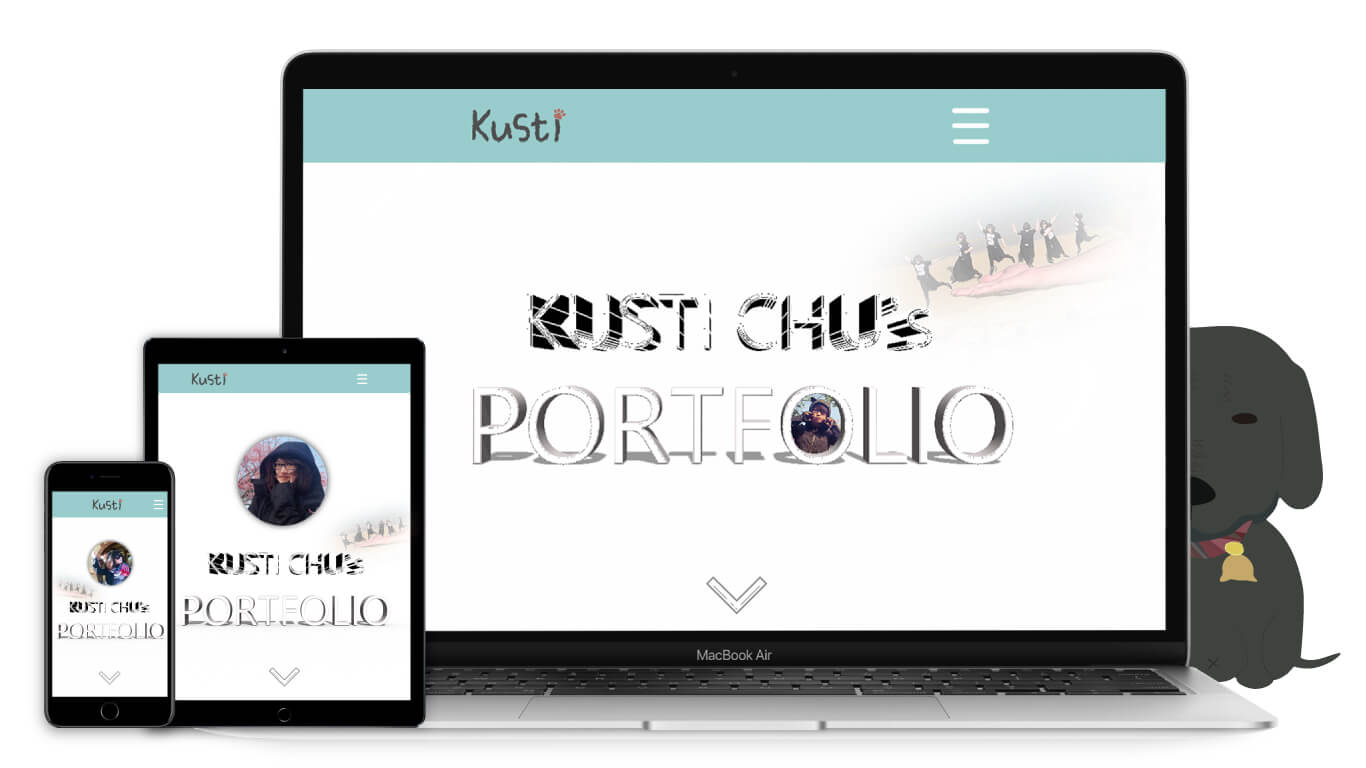
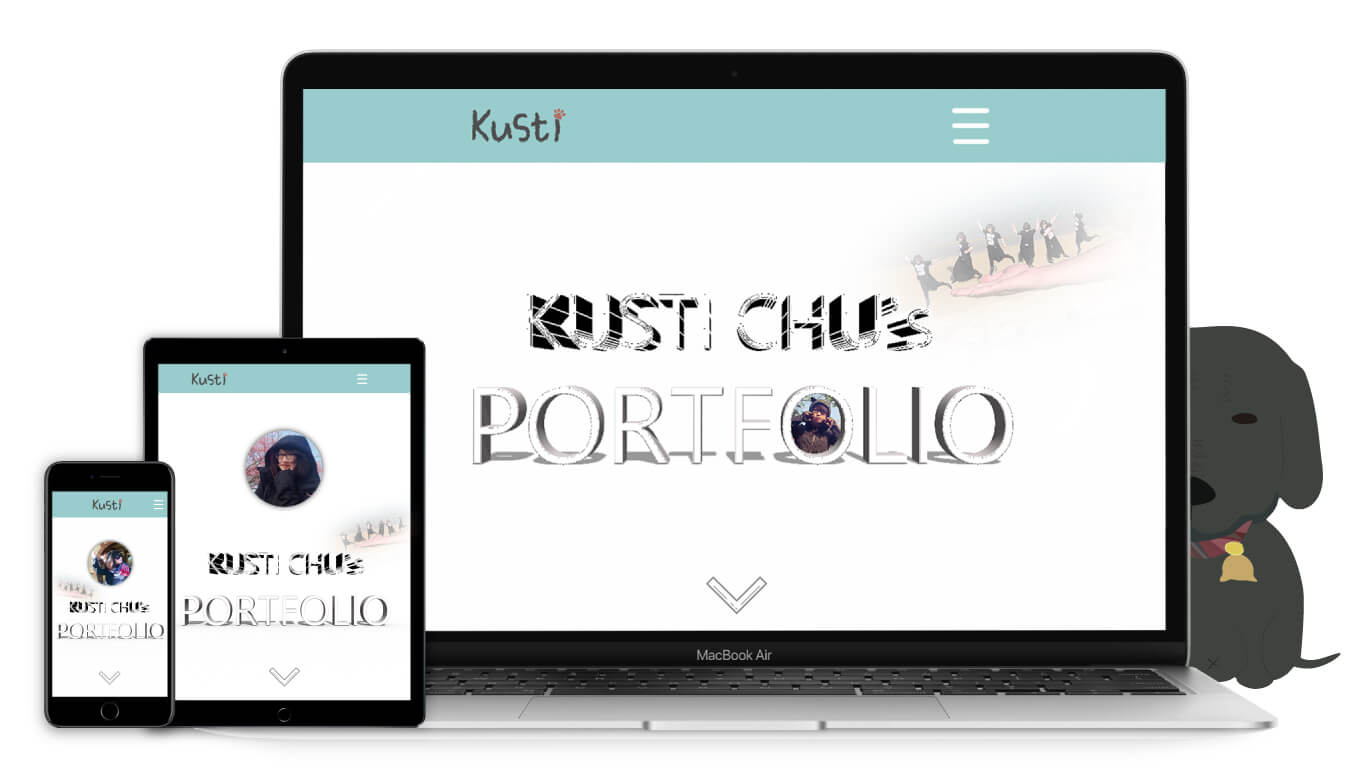
更新avatar手機檢查

Changed region(s): [[0.1537, 0.5312, 0.246, 0.6875]]

diff --git a/protfolio/css/index.scss b/protfolio/css/index.scss
@@ -20,6 +20,12 @@ body {
     color: white;
 }
 
+h3 {
+    margin-bottom: 0px;
+    margin-top: 0;
+    padding: 30px 0px;
+}
+
 .MB-100 {
     margin-bottom: 100px;
 }
@@ -53,19 +59,19 @@ header {
         margin-bottom: 0px;
         margin-top: 0;
         padding: 30px 0px;
-        font-size: 65px;
+        font-size: 60px;
         font-weight: 900;
         @media (max-width:1600px) {
-            font-size: 55px;
+            font-size: 50px;
         }
         @media (max-width:1440px) {
-            font-size: 52px;
+            font-size: 47px;
         }
         @media (max-width:1280px) {
-            font-size: 48px;
+            font-size: 43px;
         }
         @media (max-width:1024px) {
-            font-size: 40px;
+            font-size: 38px;
         }
         @media (max-width:576px) {
             font-size: 33px;
@@ -95,23 +101,27 @@ header {
         right: 9%;
         animation: aniShow-title-992 1.5s 1s ease-out forwards;
     }
+    @media (max-width:375px) {
+        right: 6%;
+        animation: aniShow-title-375 1.5s 1s ease-out forwards;
+    }
 
     h5 {
-        font-size: 40px;
-        font-weight: 700;
+        font-size: 35px;
+        font-weight: 600;
         animation: aniShow-title 5s 3s ease-out forwards;
         opacity: 0.3;
         @media (max-width:1600px) {
-            font-size: 38px;
+            font-size: 30px;
         }
         @media (max-width:1440px) {
-            font-size: 35px;
+            font-size: 29px;
         }
         @media (max-width:1280px) {
-            font-size: 32px;
+            font-size: 25px;
         }
         @media (max-width:1024px) {
-            font-size: 26px;
+            font-size: 23px;
         }
         @media (max-width:576px) {
             font-size: 20px;
@@ -151,6 +161,17 @@ header {
     100% {
         opacity: 1;
         right: 9%;
+    }
+}
+@keyframes aniShow-title-375 {
+    0% {
+        opacity: 0;
+        right: -5%;
+    }
+
+    100% {
+        opacity: 1;
+        right: 6%;
     }
 }
 

diff --git a/protfolio/css/index.css b/protfolio/css/index.css
@@ -20,6 +20,12 @@ body {
   color: white;
 }
 
+h3 {
+  margin-bottom: 0px;
+  margin-top: 0;
+  padding: 30px 0px;
+}
+
 .MB-100 {
   margin-bottom: 100px;
 }
@@ -54,31 +60,31 @@ header {
   margin-bottom: 0px;
   margin-top: 0;
   padding: 30px 0px;
-  font-size: 65px;
+  font-size: 60px;
   font-weight: 900;
 }
 
 @media (max-width: 1600px) {
   .banner h3 {
-    font-size: 55px;
+    font-size: 50px;
   }
 }
 
 @media (max-width: 1440px) {
   .banner h3 {
-    font-size: 52px;
+    font-size: 47px;
   }
 }
 
 @media (max-width: 1280px) {
   .banner h3 {
-    font-size: 48px;
+    font-size: 43px;
   }
 }
 
 @media (max-width: 1024px) {
   .banner h3 {
-    font-size: 40px;
+    font-size: 38px;
   }
 }
 
@@ -123,9 +129,17 @@ header {
   }
 }
 
+@media (max-width: 375px) {
+  .banner_text {
+    right: 6%;
+    -webkit-animation: aniShow-title-375 1.5s 1s ease-out forwards;
+            animation: aniShow-title-375 1.5s 1s ease-out forwards;
+  }
+}
+
 .banner_text h5 {
-  font-size: 40px;
-  font-weight: 700;
+  font-size: 35px;
+  font-weight: 600;
   -webkit-animation: aniShow-title 5s 3s ease-out forwards;
           animation: aniShow-title 5s 3s ease-out forwards;
   opacity: 0.3;
@@ -133,25 +147,25 @@ header {
 
 @media (max-width: 1600px) {
   .banner_text h5 {
-    font-size: 38px;
+    font-size: 30px;
   }
 }
 
 @media (max-width: 1440px) {
   .banner_text h5 {
-    font-size: 35px;
+    font-size: 29px;
   }
 }
 
 @media (max-width: 1280px) {
   .banner_text h5 {
-    font-size: 32px;
+    font-size: 25px;
   }
 }
 
 @media (max-width: 1024px) {
   .banner_text h5 {
-    font-size: 26px;
+    font-size: 23px;
   }
 }
 
@@ -224,6 +238,28 @@ header {
   100% {
     opacity: 1;
     right: 9%;
+  }
+}
+
+@-webkit-keyframes aniShow-title-375 {
+  0% {
+    opacity: 0;
+    right: -5%;
+  }
+  100% {
+    opacity: 1;
+    right: 6%;
+  }
+}
+
+@keyframes aniShow-title-375 {
+  0% {
+    opacity: 0;
+    right: -5%;
+  }
+  100% {
+    opacity: 1;
+    right: 6%;
   }
 }
 

diff --git a/protfolio/index.html b/protfolio/index.html
@@ -59,7 +59,7 @@
     <li><a class="sidenav-close grey-text text-darken-3 waves-effect" href="#parallax">Skills</a></li>
     <li><a class="sidenav-close grey-text text-darken-3 waves-effect" href="#photoshop">Photoshop</a></li>
     <li><a class="sidenav-close grey-text text-darken-3 waves-effect" href="#illustrator">Illustrator</a></li>
-    <li><a class="sidenav-close grey-text text-darken-3 waves-effect" href="#decoration">Decoration</a></li>
+    <li><a class="sidenav-close grey-text text-darken-3 waves-effect" href="#myhouse">My House</a></li>
     <li>
       <div class="divider"></div>
     </li>
@@ -96,9 +96,6 @@
         </div>
 
         <!-- 挑選待刪除 -->
-        <div class="col s12">
-          <img alt="" src="img/front-end/30.jpg" class="responsive-img">
-        </div>
         <div class="col s12">
           <img alt="" src="img/front-end/31.jpg" class="responsive-img">
         </div>
@@ -358,8 +355,8 @@
 
 
   <!-- //////decoration//////// -->
-  <section id="decoration" class="scrollspy">
-    <h3 class="section_name center">Decoration</h3>
+  <section id="myhouse" class="scrollspy">
+    <h3 class="section_name center">My House</h3>
 
     <h4>拆除</h4>
     <h4>泥作</h4>
